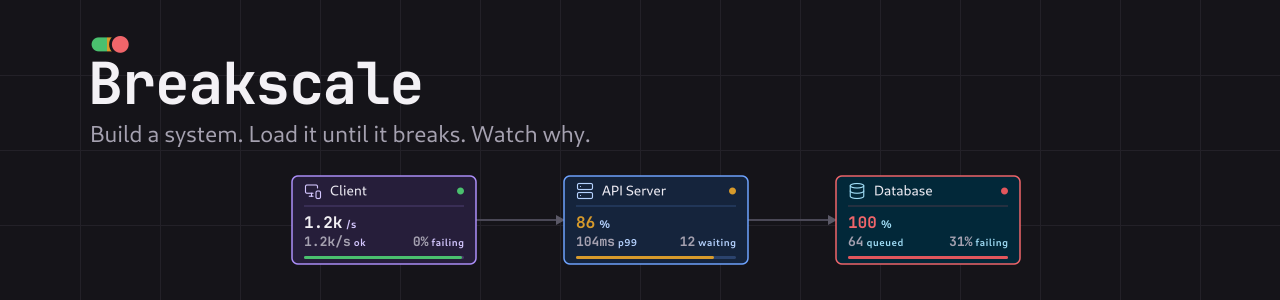
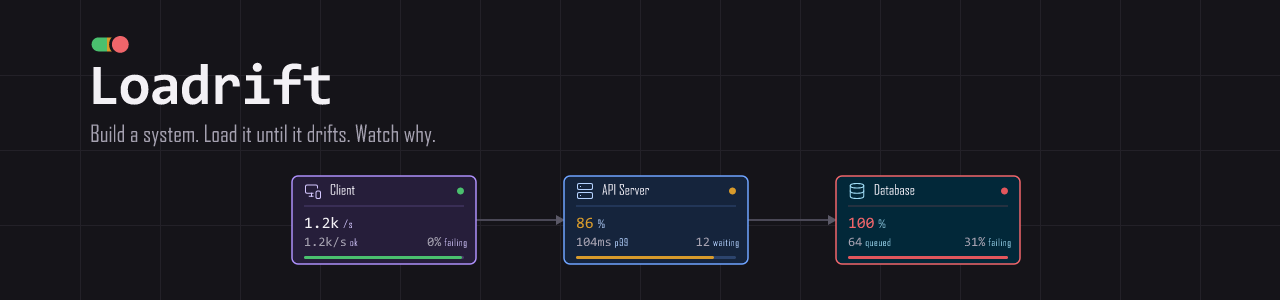
Drop leftover Breakscale branding from README, assets, and CODEOWNERS.
MIT still requires the original copyright notice in LICENSE.

diff --git a/README.md b/README.md
@@ -1,5 +1,5 @@
 <p align="center">
-  <img src="docs/banner.png" alt="Loadrift: build a system, load it until it breaks, watch why" width="100%" />
+  <img src="docs/banner.png" alt="Loadrift: build a system, load it until it drifts, watch why" width="100%" />
 </p>
 
 <h4 align="center">
@@ -32,9 +32,6 @@ systems collapsing into retry storms.
 
 Every number comes from an actual discrete-event simulation. Nothing is faked, approximated, or
 animated to look plausible.
-
-This is a customized fork of [Breakscale](https://github.com/xevrion/breakscale) by Yash Bavadiya,
-with a new name, teal colour theme, and typefaces.
 
 ## Why this exists
 
@@ -171,9 +168,6 @@ rendering predictable.
 ## License
 
 [MIT](LICENSE)
-
-Loadrift is a fork of [Breakscale](https://github.com/xevrion/breakscale). The original copyright
-is retained in [LICENSE](LICENSE).
 
 The bundled webfonts in `public/fonts/` are **not** covered by the MIT licence. They are licensed
 separately under the [SIL Open Font License 1.1](https://scripts.sil.org/OFL), which ships
